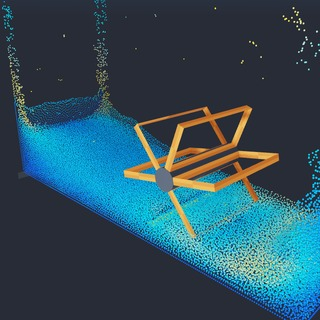
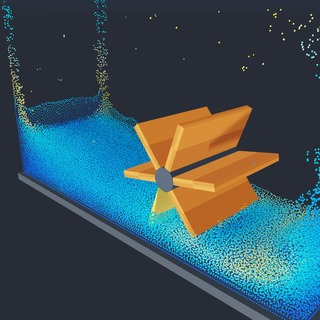
Fix double-sided box rendering

diff --git a/newton/_src/viewer/viewer.py b/newton/_src/viewer/viewer.py
@@ -35,6 +35,25 @@ _DEFAULT_LAYER_ID = "__default__"
 _LAYER_CONFIG_FIELDS = frozenset(("layer_id", "visible", "xform"))
 
 
+def _make_double_sided_render_mesh(mesh: newton.Mesh) -> newton.Mesh:
+    """Duplicate a render mesh with reversed winding and normals."""
+    vertex_count = mesh.vertices.shape[0]
+    normals = None if mesh.normals is None else np.vstack((mesh.normals, -mesh.normals))
+    uvs = None if mesh.uvs is None else np.vstack((mesh.uvs, mesh.uvs))
+    return newton.Mesh(
+        vertices=np.vstack((mesh.vertices, mesh.vertices)),
+        indices=np.concatenate(
+            (
+                mesh.indices,
+                mesh.indices.reshape(-1, 3)[:, [0, 2, 1]].reshape(-1) + vertex_count,
+            )
+        ),
+        normals=normals,
+        uvs=uvs,
+        compute_inertia=False,
+    )
+
+
 class Layer:
     """Container holding per-model viewer state for one layer.
 
@@ -1450,6 +1469,10 @@ class ViewerBase(ABC):
             else:
                 ext = tuple(geo_scale[:3])
             mesh = newton.Mesh.create_box(ext[0], ext[1], ext[2], duplicate_vertices=True, compute_inertia=False)
+            if not backface_culling:
+                # Explicit winding is reliable on headless GL drivers that mishandle disabled face culling.
+                mesh = _make_double_sided_render_mesh(mesh)
+                backface_culling = True
 
         elif geo_type == newton.GeoType.ELLIPSOID:
             # geo_scale contains (rx, ry, rz) semi-axes

diff --git a/newton/tests/test_viewer_log_shapes.py b/newton/tests/test_viewer_log_shapes.py
@@ -19,6 +19,8 @@ class _LogShapesProbe(ViewerNull):
         self.last_colors = None
         self.last_materials = None
         self.mesh_culling = []
+        self.mesh_indices = []
+        self.mesh_point_counts = []
 
     def log_instances(self, name, mesh, xforms, scales, colors, materials, hidden=False):
         self.last_colors = colors
@@ -39,6 +41,8 @@ class _LogShapesProbe(ViewerNull):
         metallic=None,
     ):
         self.mesh_culling.append(backface_culling)
+        self.mesh_indices.append(indices.numpy())
+        self.mesh_point_counts.append(len(points))
 
 
 class TestLogShapesBroadcast(unittest.TestCase):
@@ -135,7 +139,7 @@ class TestLogShapesBroadcast(unittest.TestCase):
             np.tile([0.3, 0.8, 0.9], (num_instances, 1)).astype(np.float32),
         )
 
-    def test_backface_culling_is_forwarded_and_cached_separately(self):
+    def test_double_sided_box_uses_explicit_reversed_winding(self):
         viewer = _LogShapesProbe()
         xforms = wp.array([wp.transform_identity()], dtype=wp.transform)
 
@@ -148,7 +152,12 @@ class TestLogShapesBroadcast(unittest.TestCase):
             backface_culling=False,
         )
 
-        self.assertEqual(viewer.mesh_culling, [True, False])
+        self.assertEqual(viewer.mesh_culling, [True, True])
+        self.assertEqual(viewer.mesh_point_counts, [24, 48])
+
+        front_indices = viewer.mesh_indices[1][:36].reshape(-1, 3)
+        back_indices = viewer.mesh_indices[1][36:].reshape(-1, 3) - 24
+        assert_np_equal(back_indices, front_indices[:, [0, 2, 1]])
 
 
 if __name__ == "__main__":